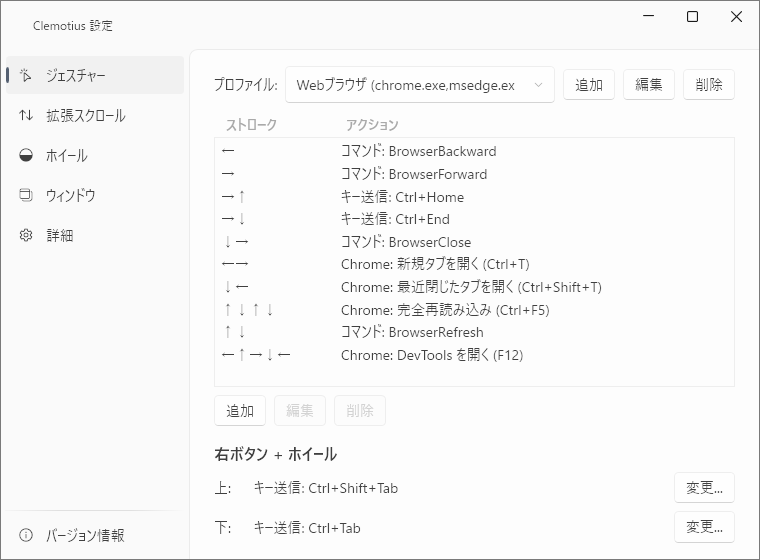
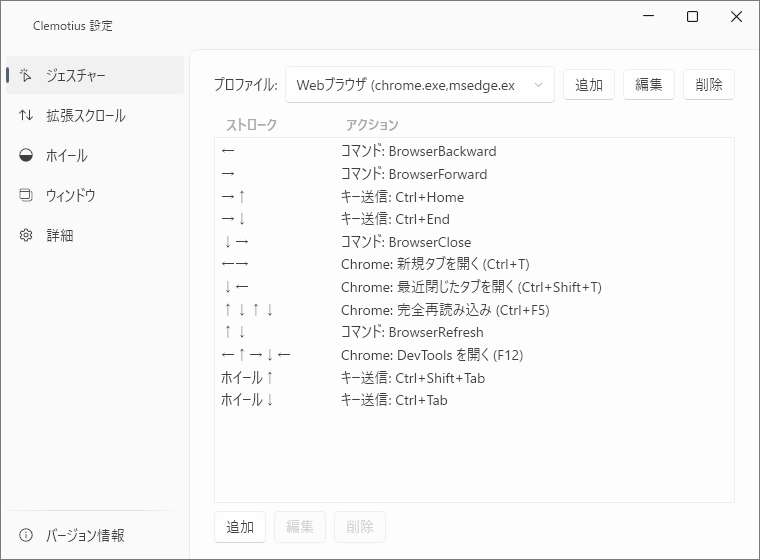
READMEのジェスチャー画面スクショ更新と詳細ページ追加
ジェスチャー一覧へ右ボタン+ホイールを統合した新UIに合わせて
settings-gesture.pngを撮り直し。詳細ページのscreenshot
(settings-details.png)を新規追加しREADMEから参照。

Claude-Session: https://claude.ai/code/session_01G211eaNdmFvw9Pde4ztx3G

diff --git a/README.md b/README.md
@@ -47,6 +47,10 @@ WPF + [WPF-UI](https://github.com/lepoco/wpfui) による Fluent デザインの
 
 ![Clemotius 設定画面 - ウィンドウ](assets/screenshots/settings-window.png)
 
+「詳細」ページでは外観テーマ、ジェスチャー判定のしきい値（距離/タイムアウト/長押し）、軌跡・コマンド表示を設定できます。
+
+![Clemotius 設定画面 - 詳細](assets/screenshots/settings-details.png)
+
 ## 開発 / ビルド
 
 ```powershell